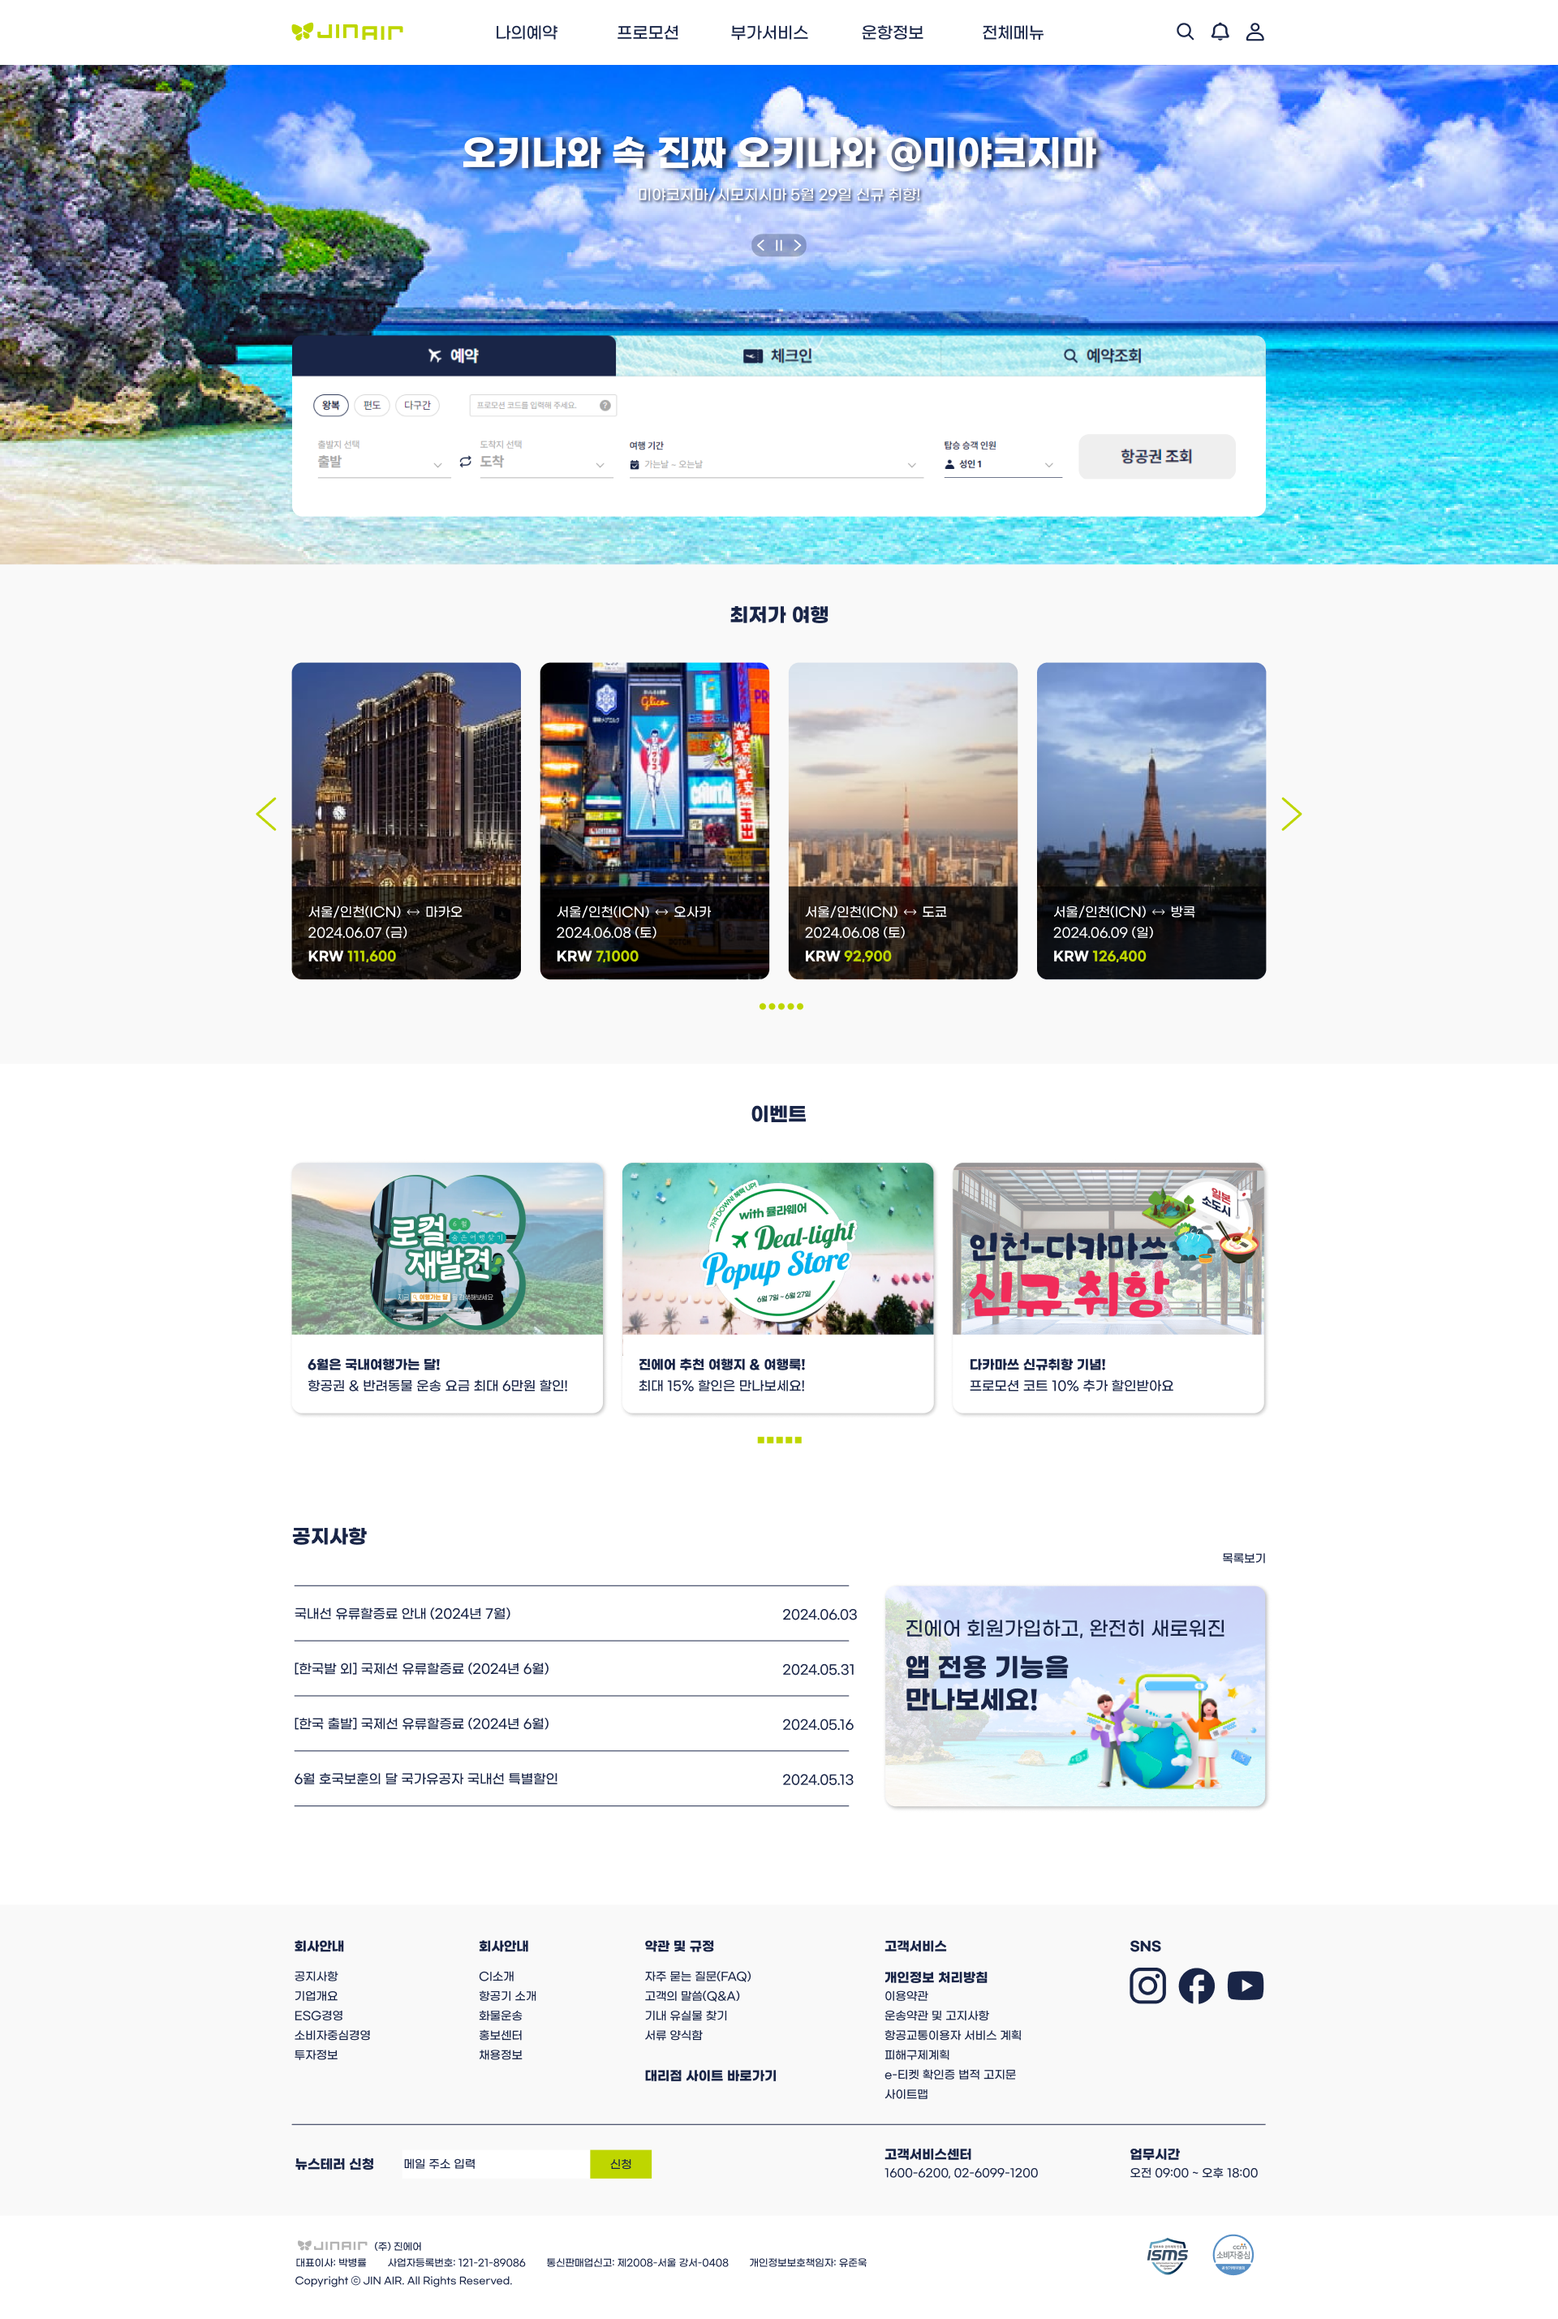
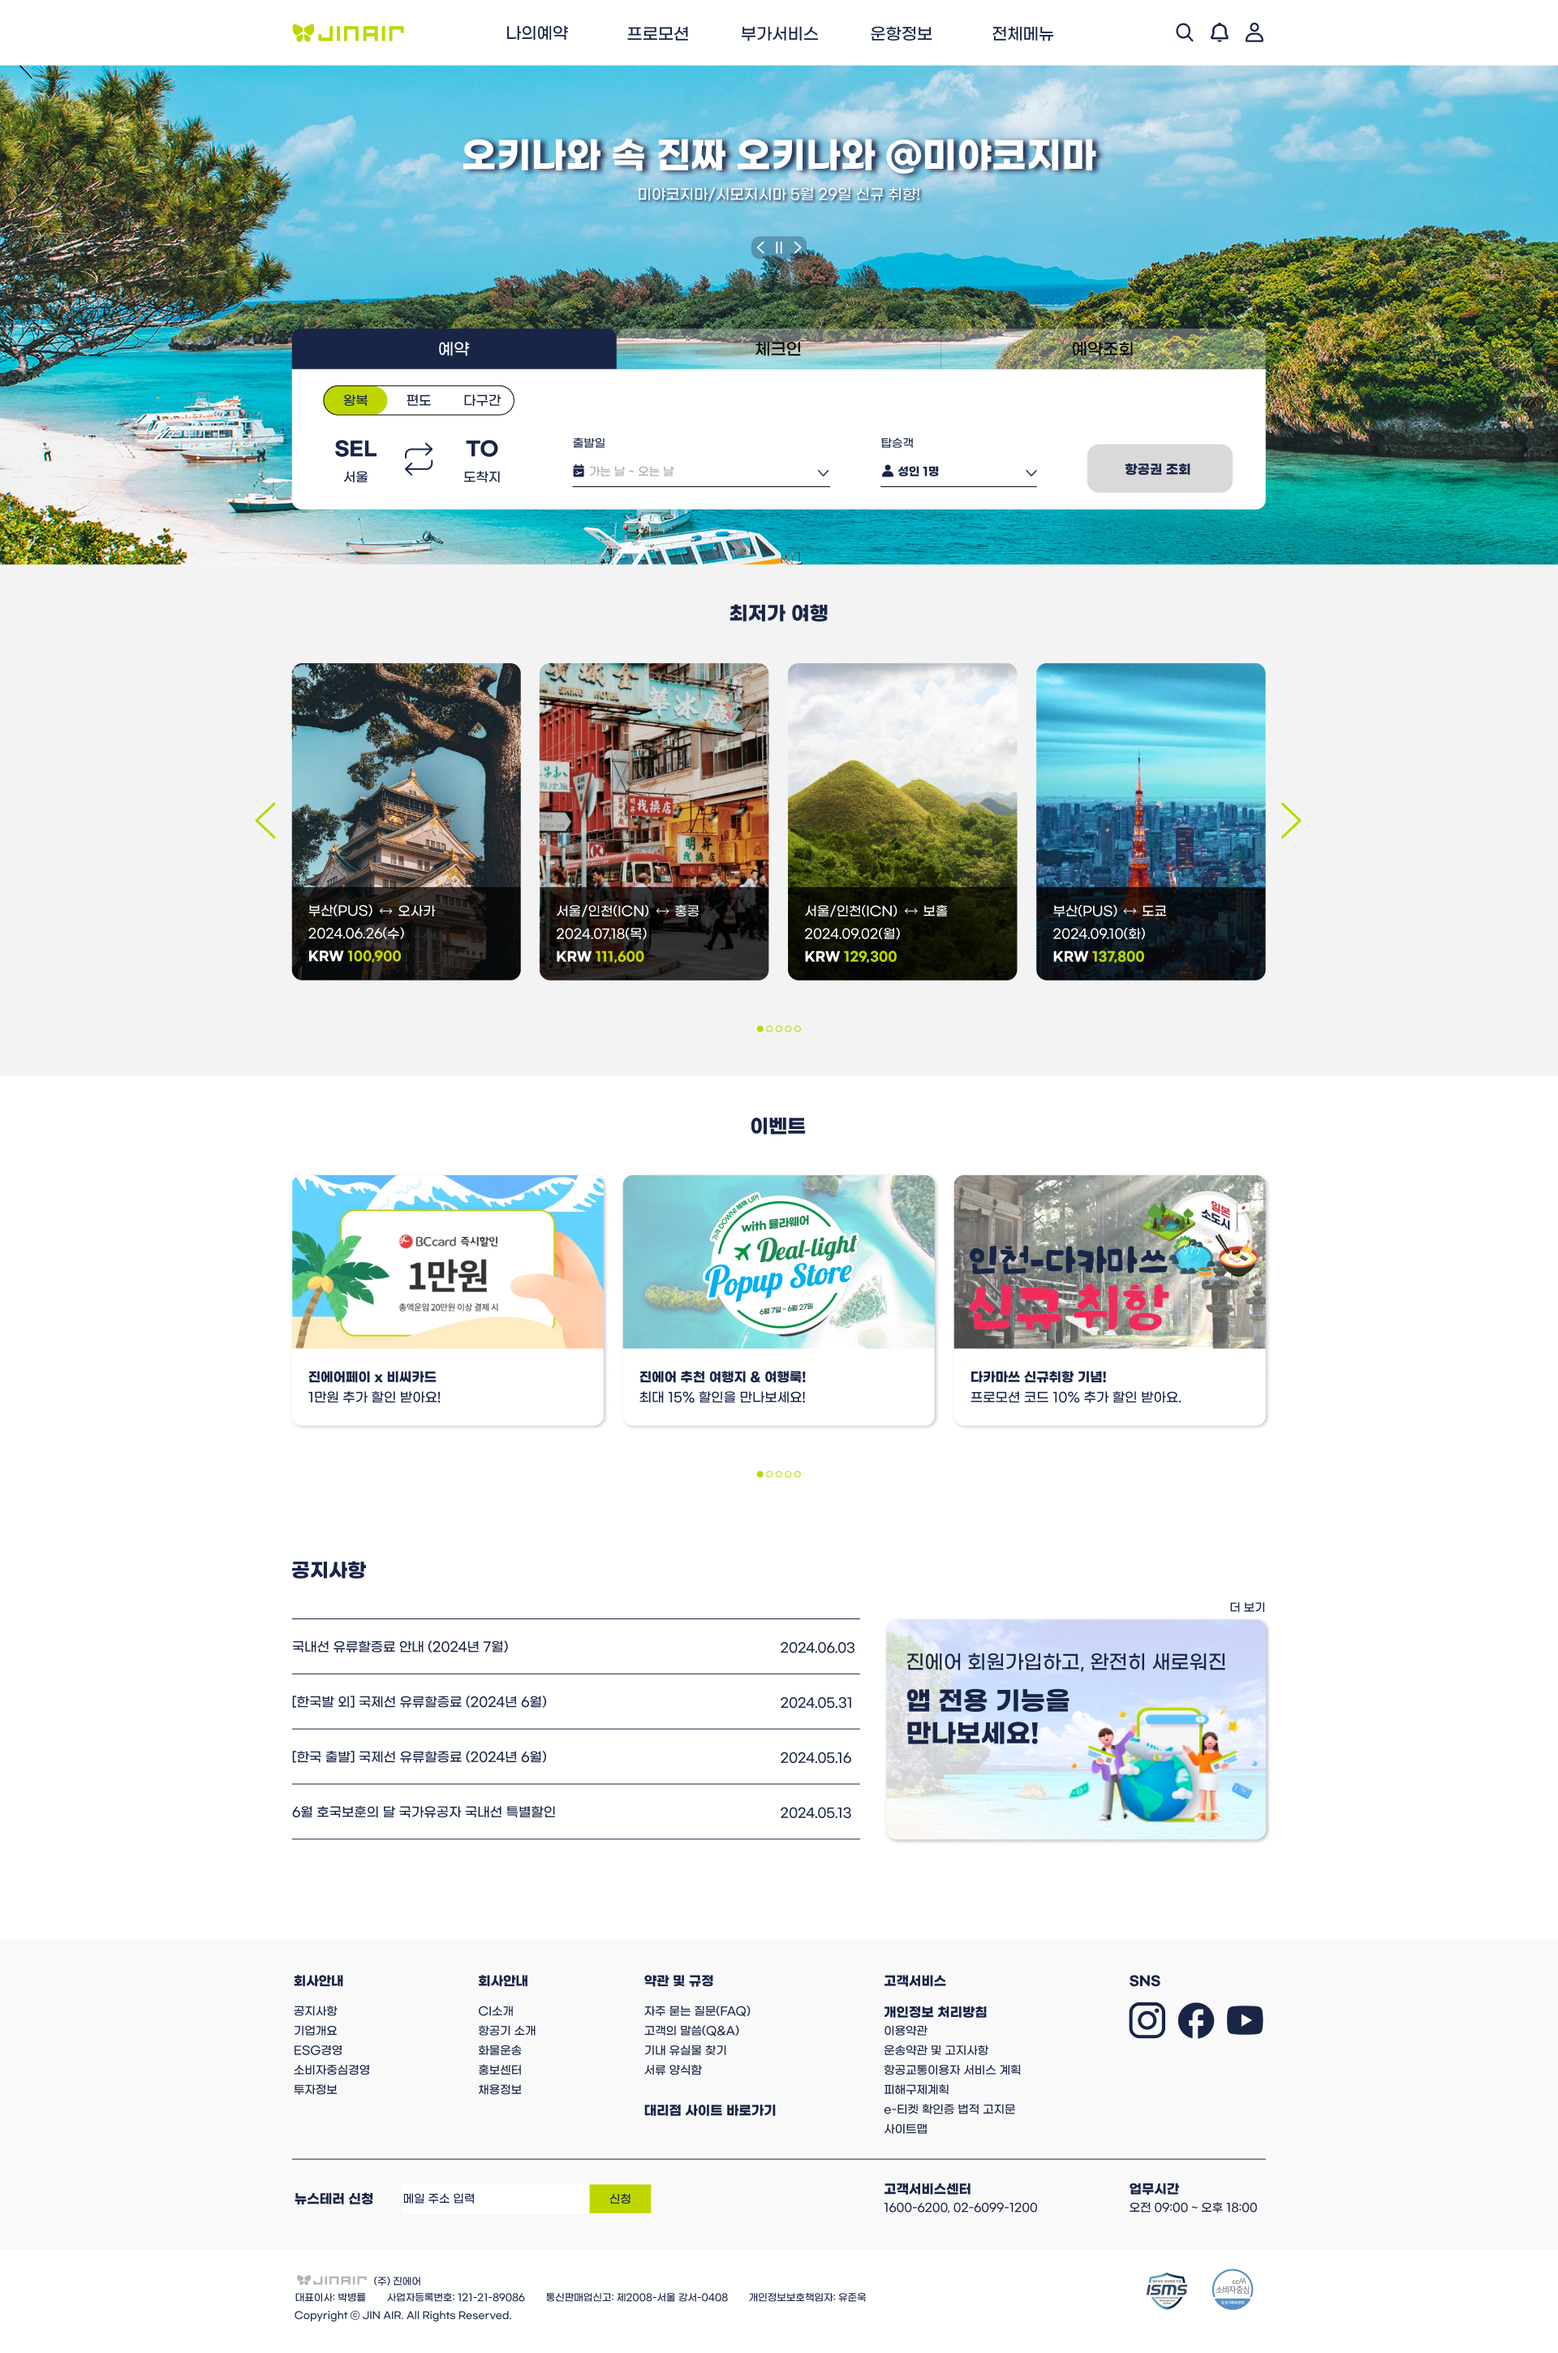
0613

diff --git a/70_pf/team/section_1.html b/70_pf/team/section_1.html
@@ -15,35 +15,29 @@
             justify-content: center;
             position: relative;
             text-align: center;
-            border: 1px solid red;
-            height: 620px;
+            height: 615px;
             background: url(section_1_banner.jpg) 0% 60%;
         }
 
         .container_1 {
             justify-content: center;
             align-items: center;
-            width: 1200px;
-            height: 268px;
-            border: 1px solid red;
-        }
-
-        .container_text {
-            justify-content: center;
-            align-items: center;
             width: 900px;
             margin: 0 auto;
             height: 156px;
             margin-top: 32px;
-            margin-bottom: 20px;
-            border: 1px solid red;
         }
+
+        .container_text {
+            margin-top: 50px;
+            margin-bottom: 32px;
+        }
+        
 
         h2 {
             font-size: 45px;
             font-weight: bold;
             color: #fff;
-            margin-top: 40px;
             text-shadow: 4px 2px 8px #192547;
         }
 
@@ -65,62 +59,61 @@
         }
 
         .container_booking {
-            float: left;
             position: absolute;
             width: 1200px;
             height: 223px;
             top: 337px;
         }
 
-        .booking_tab {
-            float: left;
-            position: absolute;
+        .tabs {
+            position: relative;
             width: 1200px;
-            height: 50px;
+            height: 223px;
         }
 
-        .button {
-            float: left;
+        .tabs label {
+            display: inline-block;
+            background: rgba(255, 255, 255, 0.5);
             width: 400px;
             height: 50px;
-            background: rgba(255, 255, 255, 0.3);
-            border-radius: 20px 20px 0 0;
-            color: #000;
-            font-size: 19px;
-            height: 50px;
             line-height: 50px;
+            color: #192547;
+            cursor: pointer;
+            border-radius: 12px 12px 0 0;
+            margin-left: -4px;
+            border: 1px solid rgba(0, 0, 0, 0.10);
+            font-size: 20px;
         }
 
-        .booking_tab .button:hover {
+        .tabs label:nth-of-type(1) {
+            margin-left: 0px;
+        }
+
+        .tabs div {
+            display: none;
+            position: absolute;
+            width: 1200px;
+            height: 173px;
+            padding: 30px;
+        }
+
+        .tabs input {
+            display: none;
+        }
+
+        .tabs input:checked+label {
             background: #192547;
             color: #fff;
         }
 
-        .booking_tab .button a:hover {
-            color: #fff;
+        .tabs input:checked+label+div {
+            display: block;
         }
 
-        .booking_main{
-            float: left;
-            position: absolute;
-            width: 1200px;
-            height: 173px;
-            top: 50px;
-            padding: 30px;
-            background: #f9f9f9;
-            border-radius: 0 0 20px 20px;
-        }
-        .tab_2 {
-            float: left;
-            margin-right: 10px;
-            width: 43px;
-            height: 27px;
-            border-radius: 30px;
-            border: 1px solid #192547;
-        }
-        .tab_2 span {
-            font-size: 13px;
-            color: #192547;
+        /* bg-color */
+        .tab {
+            background: #F9F9F9;
+            border-radius: 0 0 12px 12px;
         }
     </style>
 </head>
@@ -132,41 +125,35 @@
             <!-- 텍스트 슬라이드 로고 (캐러셀) -->
             <div class="container_text">
                 <h2>오키나와 속 진짜 오키나와 @미야코지마</h2>
-                <span>미야코지마/시모시지마 5월 29일 신규취항</span>
+                <span>떠나요! 미야코지마/시모시지마 5월 29일 신규취항</span>
             </div>
             <div class="box"></div>
         </div>
         <div class="container_booking">
-            <div class="booking_tab">
-                <ul>
-                    <li>
-                        <div class="button">예약
-                        </div>
-                    </li>
-                    <li>
-                        <div class="button">체크인
-                        </div>
-                    </li>
-                    <li>
-                        <div class="button">예약조회
-                        </div>
-                    </li>
-                </ul>
-            </div>
             <div class="booking_main">
-                <div class="tab_2">
-                    <span>왕복</span>
+                <div class="tabs">
+                    <input type="radio" name="btn" id="btn1" checked>
+                    <label for="btn1">예약</label>
+                    <div class="tab">Lorem ipsum dolor sit amet consectetur, adipisicing elit. Natus porro fugit odit,
+                        ipsum in
+                        maxime sint vitae a consectetur. Sequi provident doloribus ex obcaecati animi eos fugiat,
+                        distinctio
+                        pariatur. Maxime.</div>
+                    <input type="radio" name="btn" id="btn2">
+                    <label for="btn2">체크인</label>
+                    <div class="tab">Lorem ipsum dolor sit amet, consectetur adipisicing elit. Dicta harum, nihil nobis
+                        laudantium
+                        quaerat, eaque nam officia at unde neque voluptatem quasi, recusandae iste ut soluta molestias
+                        reiciendis
+                        dolorem?</div>
+                    <input type="radio" name="btn" id="btn3">
+                    <label for="btn3">예약조회</label>
+                    <div class="tab">Lorem ipsum dolor sit amet, consectetur adipisicing elit. Dicta harum, nihil nobis
+                        laudantium
+                        quaerat, eaque nam officia at unde neque voluptatem quasi, recusandae iste ut soluta molestias
+                        reiciendis
+                        dolorem?</div>
                 </div>
-                <div class="tab_2">
-                    <span>왕복</span>
-                </div>
-                <div class="tab_2">
-                    <span>왕복</span>
-                </div>
-
-            </div>
-
-        </div>
     </section>
 </body>
 

diff --git a/70_pf/BR/section3.html b/70_pf/BR/section3.html
@@ -1,0 +1,73 @@
+<!DOCTYPE html>
+<html lang="en">
+
+<head>
+    <meta charset="UTF-8">
+    <meta name="viewport" content="width=device-width, initial-scale=1.0">
+    <title>하나투어</title>
+    <style>
+        /* reset(초기화)는 상위에 있어야 한다. */
+        @import url(style/reset.css);
+        @import url(style/typo.css);
+
+        /* 섹션3 영역 */
+        section {
+            width:1480px; margin: 0 auto;
+            padding: 96px 0;
+        }
+        h2 {
+            border-bottom: 1px solid #111;
+            padding-bottom: 24px; margin-bottom: 24px;
+        }
+        section>p {margin-bottom: 48px;}
+        ul {display: flex;}
+        li {width: 355px; margin-right: 20px;}
+        li:nth-child(4n) {margin-right: 0;}
+        div {height: 240px; background: #ccc;}
+        h3 {font-size: 2.4rem; margin: 24px 0;}
+        li p {margin: 24px 0;}
+        a {display:block; background: #ccc; text-align: center;     padding: 12px 0;
+        }
+    </style>
+</head>
+
+<body>
+    <!-- 섹션3 영역 -->
+    <section>
+        <h2>이벤트</h2>
+        <p>Lorem ipsum dolor sit amet, consectetur adipiscing elit, sed do eiusmod tempor incididunt ut labore et dolore magna aliqua. Ut enim ad minim veniam, quis nostrud exercitation ullamco laboris nisi ut aliquip ex ea commodo consequat. Excepteur sint occaecat cupidatat non proident, sunt in culpa qui officia deserunt mollit anim id est laborum consectetur adipiscing elit, sed do eiusmod tempor incididunt ut labore et dolore magna aliqua. Ut enim ad minim veniam, quis nostrud exercitation ullamco laboris nisi ut aliquip ex ea commodo consequat.</p>
+        <ul>
+            <li>
+                <div><!-- 이미지 삽입 예정 --></div>
+                <h3>title title</h3>
+                <p>이벤트 날짜 D-남은일수</p>
+                <p>Phasellus eget enim eu lectus faucibus vestibulum. Suspendisse sodales pellentesque elementum.</p>
+                <a href="#">자세히 버튼</a>
+            </li>
+            <li>
+                <div><!-- 이미지 삽입 예정 --></div>
+                <h3>title title</h3>
+                <p>이벤트 날짜 D-남은일수</p>
+                <p>Phasellus eget enim eu lectus faucibus vestibulum. Suspendisse sodales pellentesque elementum.</p>
+                <a href="#">자세히 버튼</a>
+            </li>
+            <li>
+                <div><!-- 이미지 삽입 예정 --></div>
+                <h3>title title</h3>
+                <p>이벤트 날짜 D-남은일수</p>
+                <p>Phasellus eget enim eu lectus faucibus vestibulum. Suspendisse sodales pellentesque elementum.</p>
+                <a href="#">자세히 버튼</a>
+            </li>
+            <li>
+                <div><!-- 이미지 삽입 예정 --></div>
+                <h3>title title</h3>
+                <p>이벤트 날짜 D-남은일수</p>
+                <p>Phasellus eget enim eu lectus faucibus vestibulum. Suspendisse sodales pellentesque elementum.</p>
+                <a href="#">자세히 버튼</a>
+            </li>
+        </ul>
+
+    </section>
+</body>
+
+</html>

diff --git a/tab.html b/tab.html
@@ -40,6 +40,7 @@
             border-radius: 12px 12px 0 0;
             margin-left: -4px;
             border: 1px solid rgba(0, 0, 0, 0.10);
+            font-size: 19px;
         }
 
         .tabs label:nth-of-type(1) {
@@ -77,22 +78,7 @@
 </head>
 
 <body>
-    <div class="tabs">
-        <input type="radio" name="btn" id="btn1" checked>
-        <label for="btn1">예약</label>
-        <div class="tab">Lorem ipsum dolor sit amet consectetur, adipisicing elit. Natus porro fugit odit, ipsum in
-            maxime sint vitae a consectetur. Sequi provident doloribus ex obcaecati animi eos fugiat, distinctio
-            pariatur. Maxime.</div>
-        <input type="radio" name="btn" id="btn2">
-        <label for="btn2">체크인</label>
-        <div class="tab">Lorem ipsum dolor sit amet, consectetur adipisicing elit. Dicta harum, nihil nobis laudantium
-            quaerat, eaque nam officia at unde neque voluptatem quasi, recusandae iste ut soluta molestias reiciendis
-            dolorem?</div>
-        <input type="radio" name="btn" id="btn3">
-        <label for="btn3">예약조회</label>
-        <div class="tab">Lorem ipsum dolor sit amet, consectetur adipisicing elit. Dicta harum, nihil nobis laudantium
-            quaerat, eaque nam officia at unde neque voluptatem quasi, recusandae iste ut soluta molestias reiciendis
-            dolorem?</div>
+
     </div>
 </body>
 

diff --git a/70_pf/team/index.html b/70_pf/team/index.html
@@ -1,5 +1,6 @@
 <!DOCTYPE html>
 <html lang="en">
+
 <head>
     <meta charset="UTF-8">
     <meta name="viewport" content="width=device-width, initial-scale=1.0">
@@ -8,16 +9,22 @@
         body {
             margin: 0;
         }
+
         img {
             width: 100%;
         }
     </style>
 </head>
+
 <body>
     <img src="./index.png" alt="메인 페이지" usemap="#workmap">
 
-    <map name="workmap"
-
+    <map name="workmap">
+        <area shape="rect" coords="34,44,270,350" alt="Computer" href="computer.htm">
+        <area shape="rect" coords="290,172,333,250" alt="Phone" href="phone.htm">
+        <area shape="circle" coords="337,300,44" alt="Coffee" href="coffee.htm">
+    </map>
 
 </body>
+
 </html>

diff --git a/70_pf/BR/section4.html b/70_pf/BR/section4.html
@@ -1,0 +1,24 @@
+<!DOCTYPE html>
+<html lang="en">
+
+<head>
+    <meta charset="UTF-8">
+    <meta name="viewport" content="width=device-width, initial-scale=1.0">
+    <title>하나투어</title>
+    <style>
+        /* reset(초기화)는 상위에 있어야 한다. */
+        @import url(style/reset.css);
+        @import url(style/typo.css);
+        /* 섹션3 */
+    </style>
+</head>
+
+<body>
+    <!-- 섹션3 영역 -->
+    <section>
+        <h2>이벤트</h2>
+        
+    </section>
+</body>
+
+</html>

diff --git a/70_pf/BR/style/reset.css b/70_pf/BR/style/reset.css
@@ -8,7 +8,9 @@ ul {
     margin: 0;
 }
 
-ul {
+
+
+ul,li {
     padding: 0;
     list-style: none;
 }
